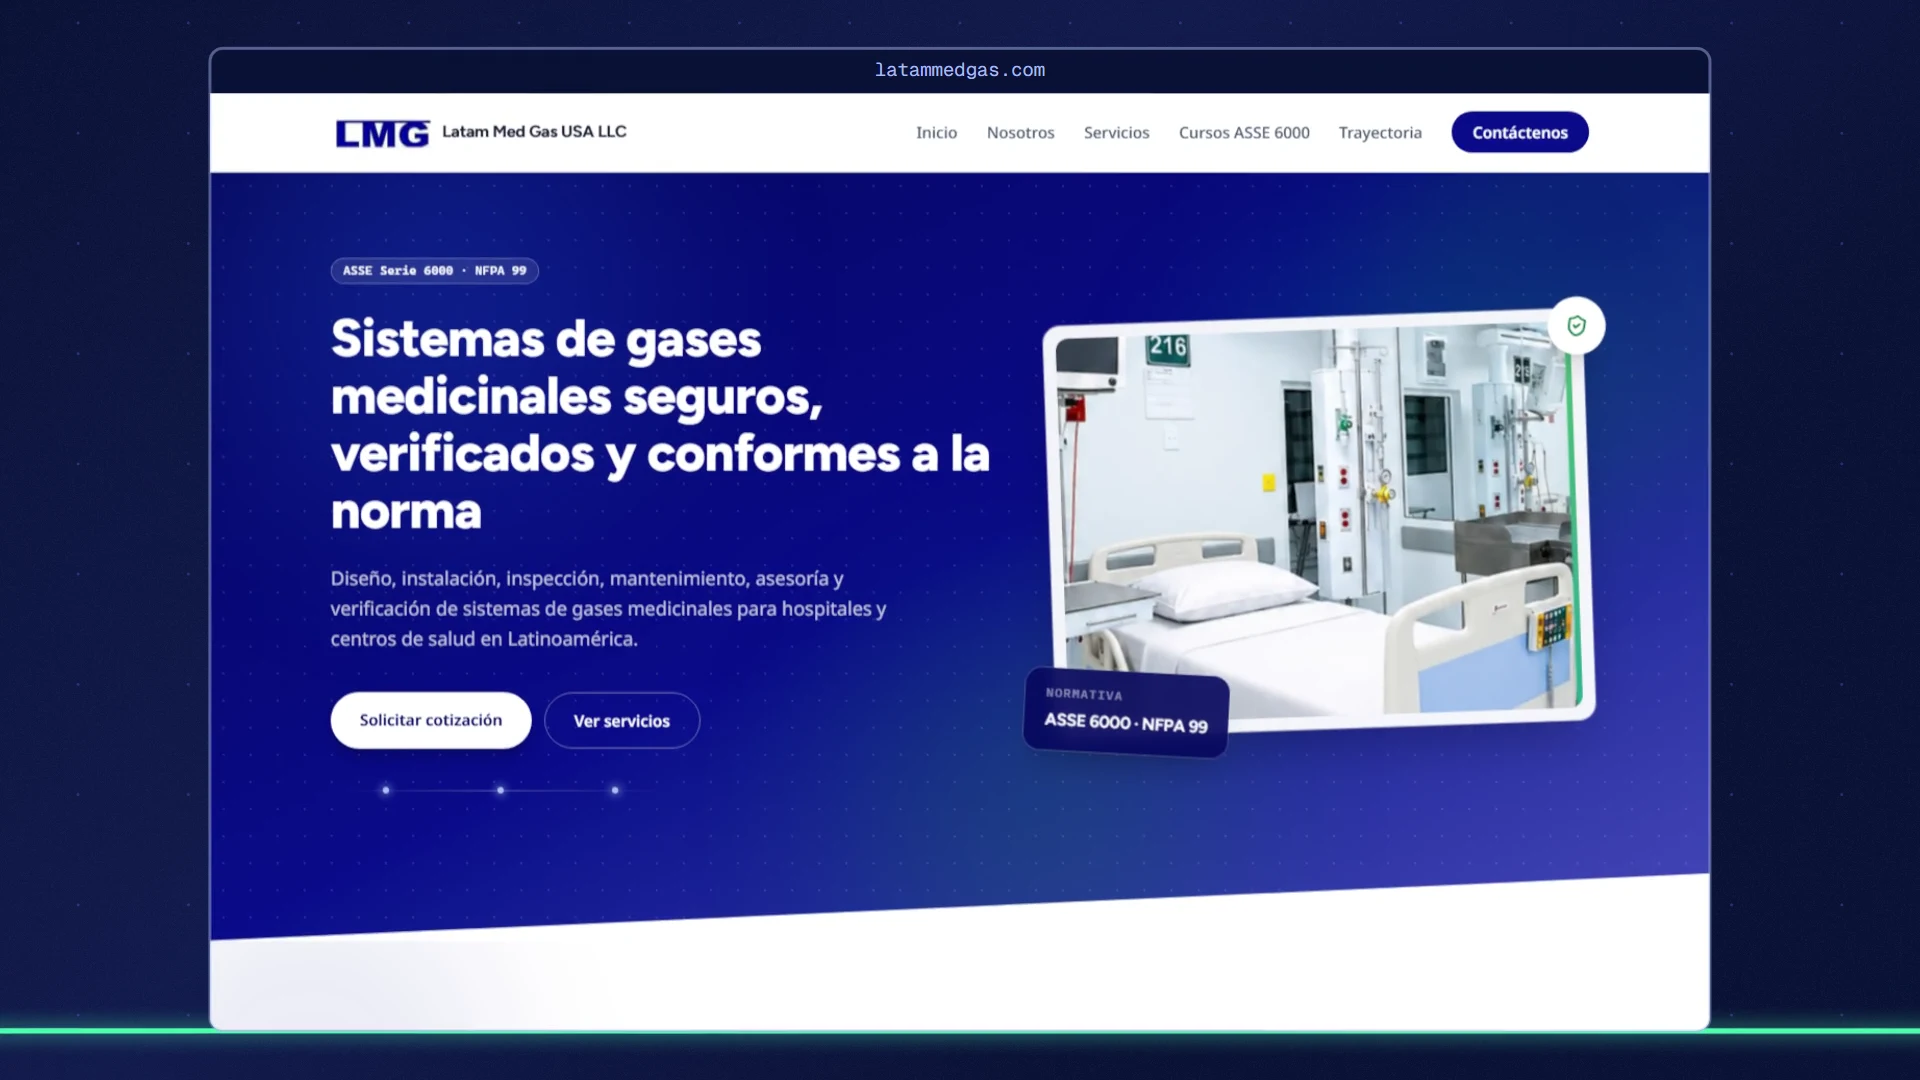
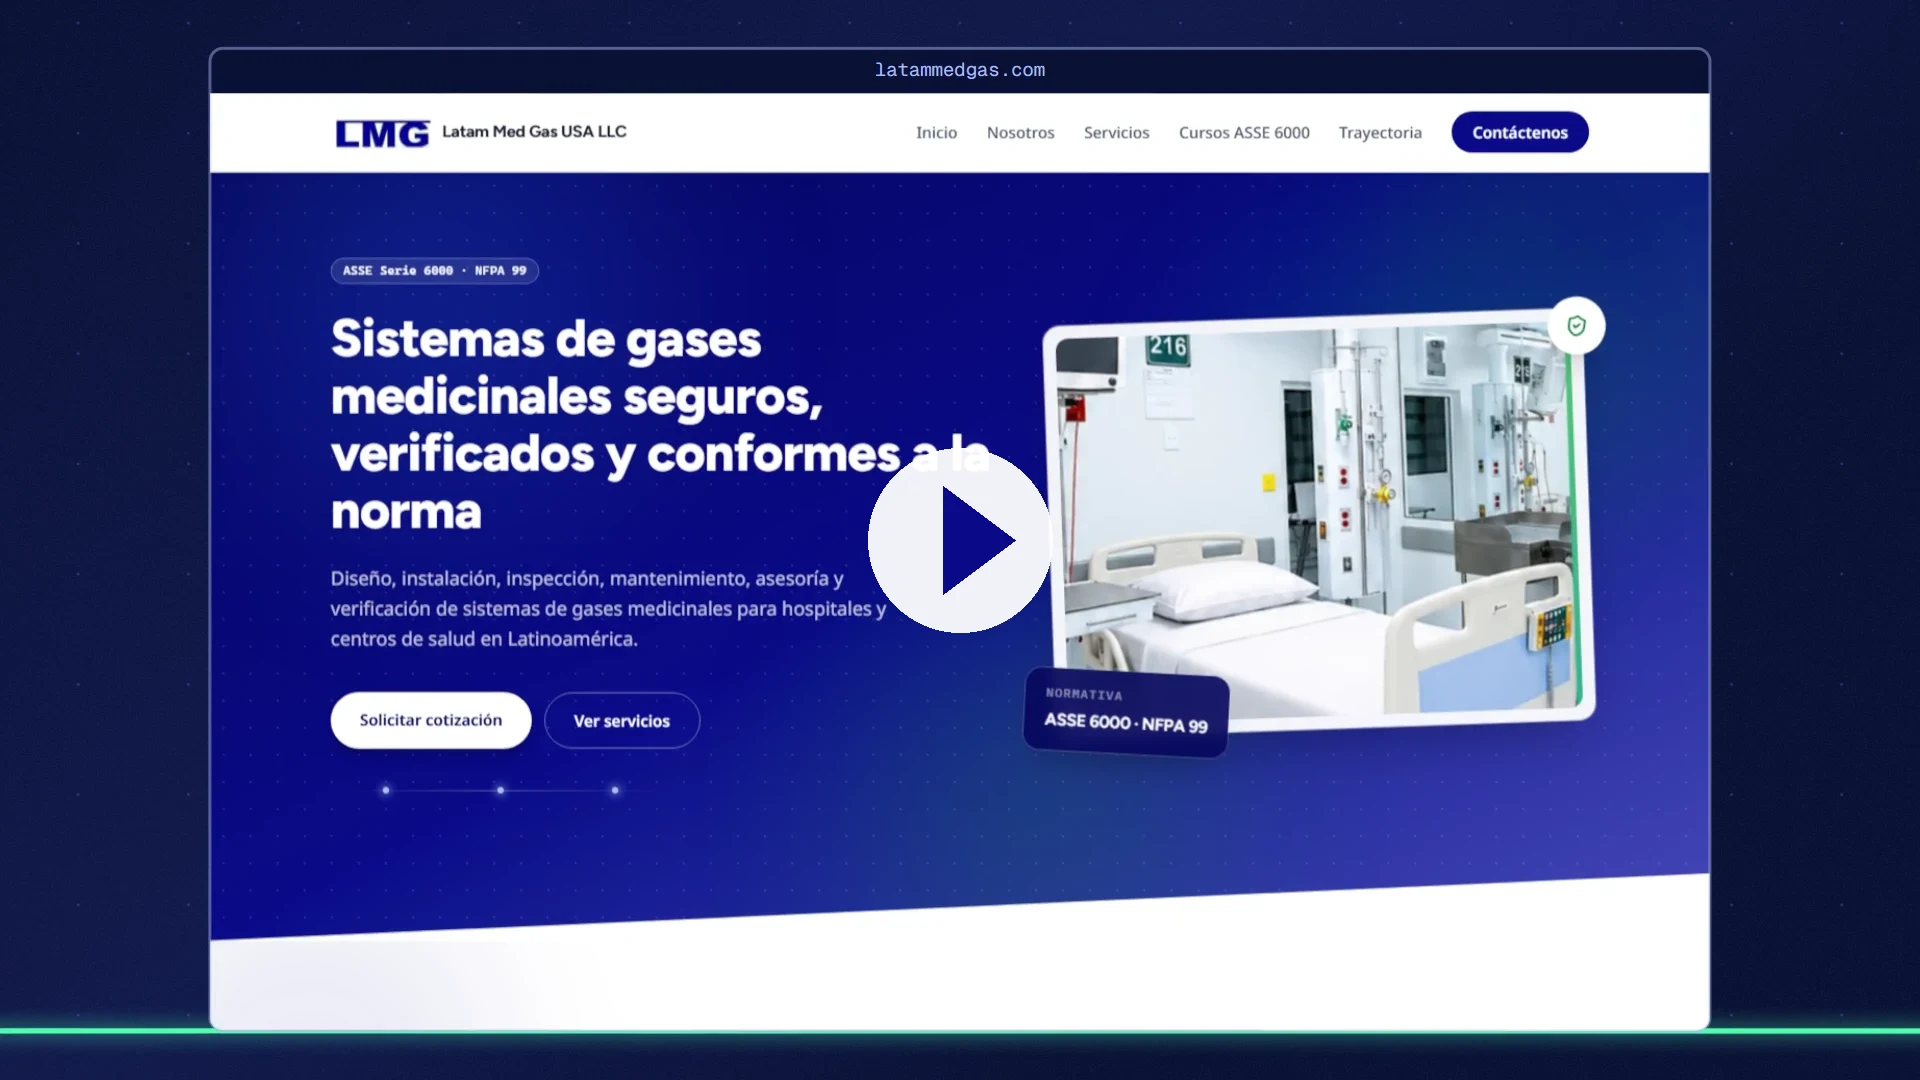
Link the film from a poster, because GitHub strips <video>
The tag was sanitised out of the rendered README — 0 occurrences in the page
GitHub serves — so the embed showed nothing at all. A poster image linking to
docs/film.mp4 always renders, and clicking it lands on GitHub's own blob page
for the file, which does have a player.

An inline player would need a user-attachments URL, and those only exist for
files dragged into an issue, comment or release through the web UI; a path
inside the repository never becomes one. Noted in CLAUDE.md so the next person
does not spend the afternoon on it.

Changed region(s): [[0.4375, 0.3972, 0.5625, 0.5806]]

diff --git a/README.md b/README.md
@@ -9,10 +9,10 @@ certification.
 **Live at [latammedgas.com](https://latammedgas.com)** since August 2026 — a paying client, real
 traffic, and a domain that also carries the company's working email. Nothing here is a prototype.
 
-<video src="https://github.com/BryanBel/latam-med-gas-landing-page/raw/master/docs/film.mp4" poster="https://github.com/BryanBel/latam-med-gas-landing-page/raw/master/docs/film-poster.webp" controls muted playsinline width="100%"></video>
+[![Launch film — 18 seconds](docs/film-poster.webp)](docs/film.mp4)
 
-▶ **[Launch film — 18 s](docs/film.mp4)** · one continuous line of gas becomes the standard, the
-wordmark, the six services, a hospital wall and, at the end, the site itself.
+**[Launch film — 18 s](docs/film.mp4)** · one continuous line of gas becomes the standard, the
+wordmark, the six services, a hospital wall and, at the end, the site itself. No cuts.
 
 ![The Latam Med Gas home page](docs/home.webp)
 

diff --git a/README.es.md b/README.es.md
@@ -10,10 +10,11 @@ certificación ASSE 6000.
 paga, tráfico real, y un dominio que además carga el correo de la empresa. Nada acá es un
 prototipo.
 
-<video src="https://github.com/BryanBel/latam-med-gas-landing-page/raw/master/docs/film.mp4" poster="https://github.com/BryanBel/latam-med-gas-landing-page/raw/master/docs/film-poster.webp" controls muted playsinline width="100%"></video>
+[![Video de lanzamiento — 18 segundos](docs/film-poster.webp)](docs/film.mp4)
 
-▶ **[Video de lanzamiento — 18 s](docs/film.mp4)** · una sola línea de gas se convierte en la
-norma, en el logotipo, en los seis servicios, en la pared de un hospital y, al final, en el sitio.
+**[Video de lanzamiento — 18 s](docs/film.mp4)** · una sola línea de gas se convierte en la norma,
+en el logotipo, en los seis servicios, en la pared de un hospital y, al final, en el sitio. Sin
+un solo corte.
 
 ![La página de inicio de Latam Med Gas](docs/home.webp)
 

diff --git a/CLAUDE.md b/CLAUDE.md
@@ -100,6 +100,10 @@ Do not revert these without being asked. They were deliberate choices, and at le
   asset for the READMEs. Only the committed 3.3 MB web encode is in git, never the 4K60 master.
   The film's last third shows the site as a full-page screenshot scrolled inside a window, so **a
   redesign does not propagate into it** — the capture has to be retaken and the film re-rendered.
+  **GitHub strips `<video>` out of README markdown**, so the READMEs use a poster image linking to
+  `docs/film.mp4`; clicking it lands on GitHub's own blob page, which does have a player. An inline
+  player needs a `user-attachments` URL, which only exists if the file is dragged into an issue,
+  comment or release through the web UI — a repository path never renders as one.
 
 ## Verifying changes
 
